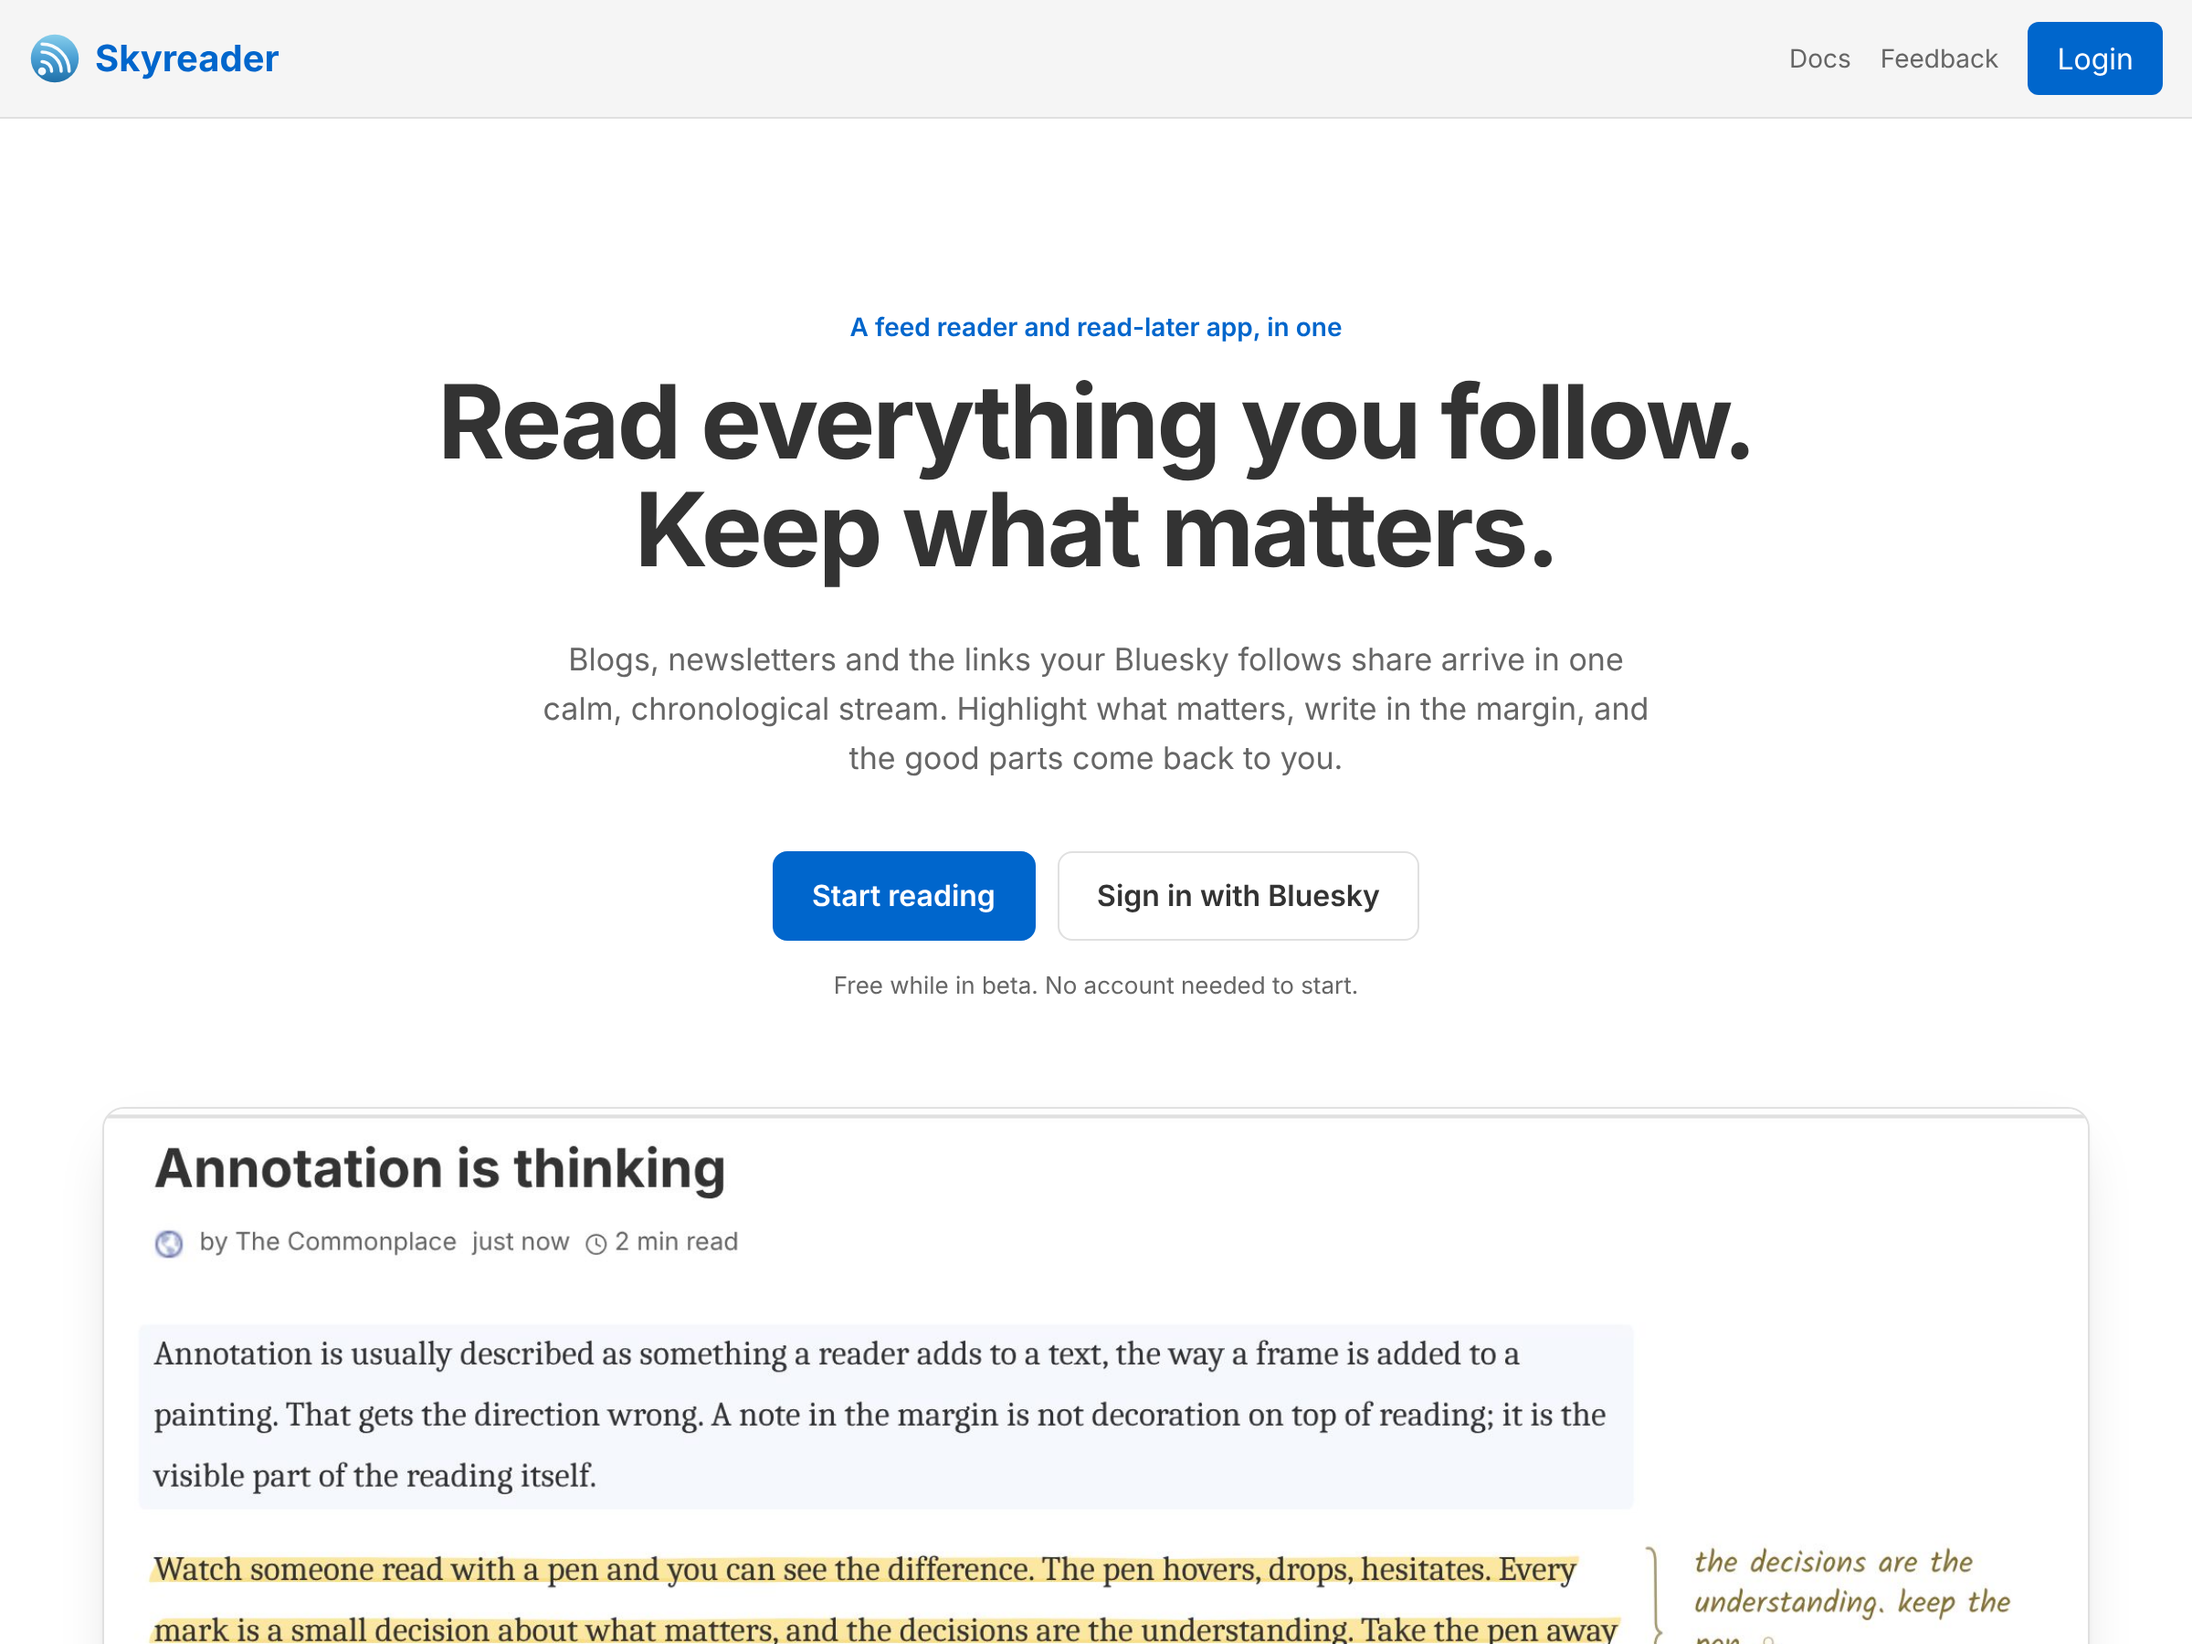
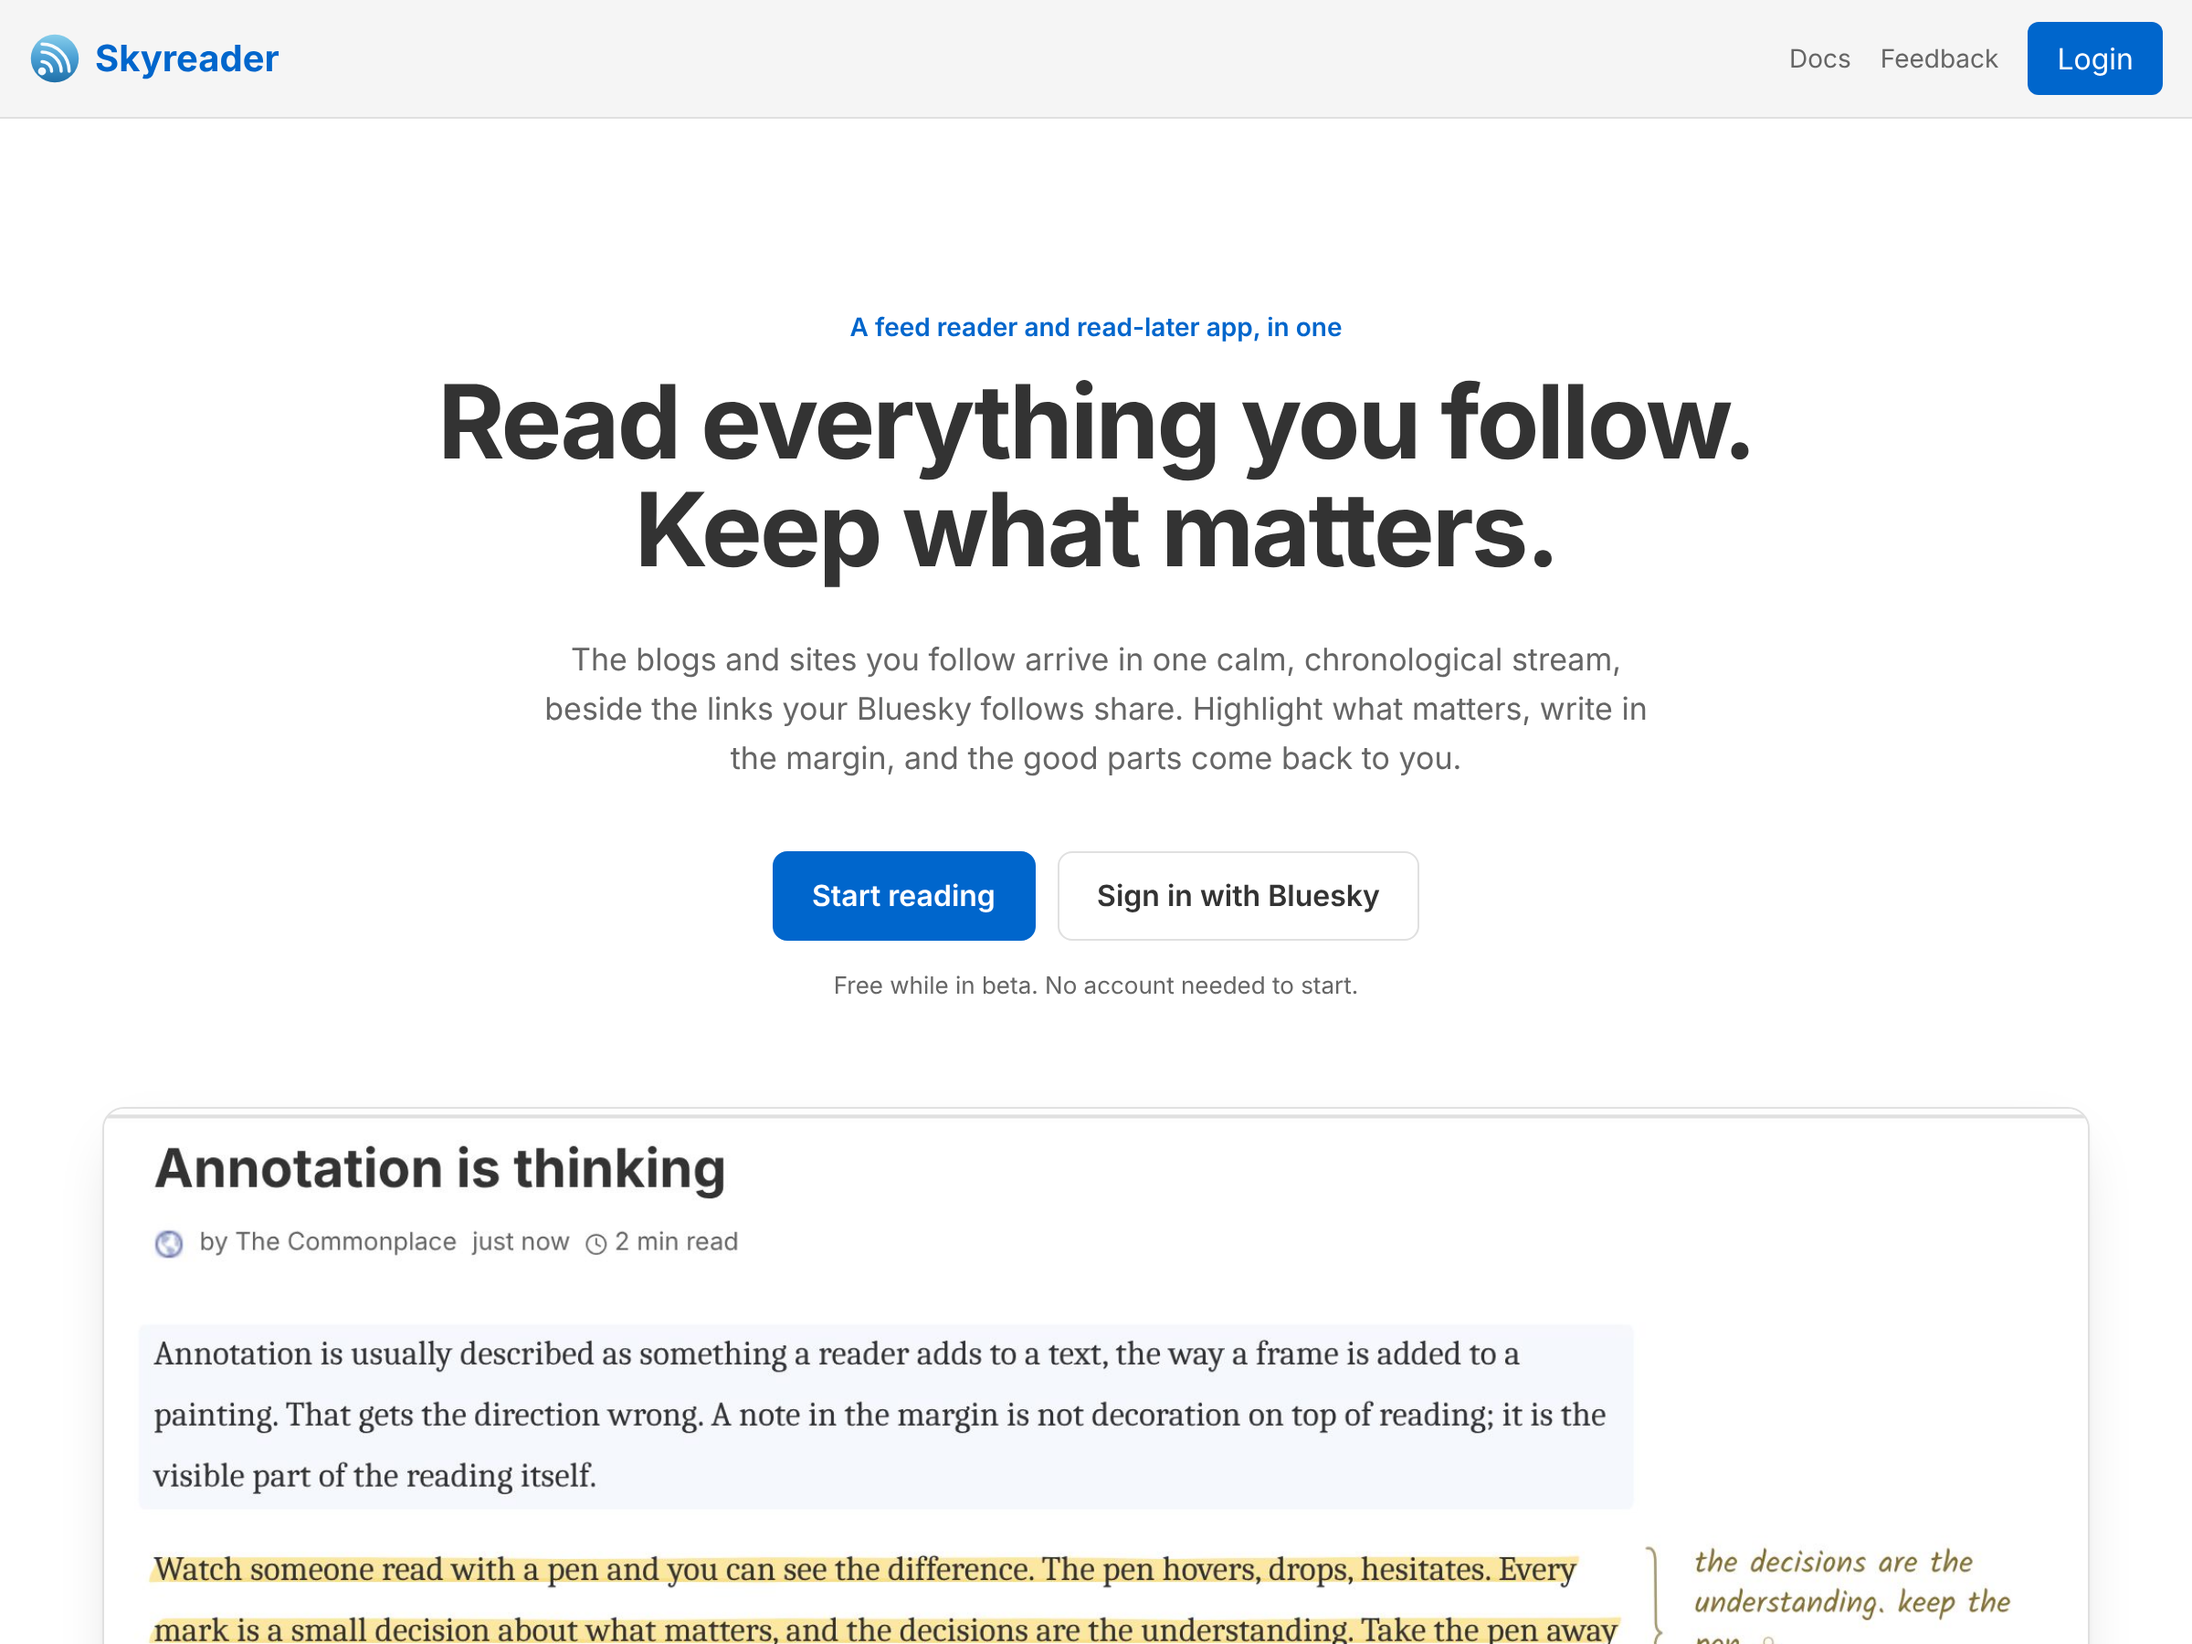
Landing page: fixes from review
- Mark newsletters, PDFs and books as Supporter wherever the page names them.
- Keep the chronological claim to feeds; links from follows are a signed-in
  extra, not part of the stream.
- Fetching a full article needs an account; say so.
- One alert per failed Start, beside the button pressed.
- "Is my reading public?" matches faq.md again.
- Share metadata carries the new headline.
- Screenshot spec: wait for the follows offer before dismissing it, crop the
  hero clear of the toolbar rule, drop the stale animation wait.
- e2e: the landing renders and Start reading opens /feeds as a guest.

Claude-Session: https://claude.ai/code/session_014mh1a1Wg2saDBXnqHqCkAh

Changed region(s): [[0.25, 0.3733, 0.75, 0.4667]]

diff --git a/frontend/src/lib/components/feed/WelcomePage.svelte b/frontend/src/lib/components/feed/WelcomePage.svelte
@@ -27,13 +27,17 @@
 
   let starting = $state(false);
   let startError = $state<string | null>(null);
+  // The page has two Start buttons; the error shows beside the one pressed, so
+  // a failure is one alert, in view, not two (one of them off-screen).
+  let startFrom = $state<'hero' | 'closing'>('hero');
 
   // "Start reading": guest mode. Seeds the curated starter channels into the
   // local library and opens the reader, no account involved; signing in later
   // migrates whatever the guest did. See "Guest reading mode" in
   // frontend/CLAUDE.md.
-  async function startReading() {
+  async function startReading(from: 'hero' | 'closing') {
     if (starting) return;
+    startFrom = from;
     starting = true;
     startError = null;
     try {
@@ -110,7 +114,7 @@
     },
     {
       q: 'Is my reading public?',
-      a: 'No. What you read, save, highlight and note is private to you. Things become public only when you choose to share them, like posting to your linkblog.',
+      a: 'No. What you read, save, highlight and note is private to you. A few things are public by your choice: your linkblog, recommends, the reading rooms you join, and anything you sync or back up to another Atmospheric app.',
       link: { href: docsUrl('yourData'), label: 'What is public, in full' },
     },
     {
@@ -139,16 +143,17 @@
       <span>Keep what matters.</span>
     </h1>
     <p class="hero-lead">
-      Blogs, newsletters and the links your Bluesky follows share arrive in one calm, chronological
-      stream. Highlight what matters, write in the margin, and the good parts come back to you.
+      The blogs and sites you follow arrive in one calm, chronological stream, beside the links your
+      Bluesky follows share. Highlight what matters, write in the margin, and the good parts come
+      back to you.
     </p>
     <div class="actions">
-      <button class="btn btn-primary" onclick={startReading} disabled={starting}>
+      <button class="btn btn-primary" onclick={() => startReading('hero')} disabled={starting}>
         {starting ? 'Preparing your reading room…' : 'Start reading'}
       </button>
       <a class="btn btn-secondary" href="/auth/login">Sign in with Bluesky</a>
     </div>
-    {#if startError}
+    {#if startError && startFrom === 'hero'}
       <p class="start-error" role="alert">{startError}</p>
     {/if}
     <p class="fine">Free while in beta. No account needed to start.</p>
@@ -169,11 +174,12 @@
     <p class="reads-label">Reads</p>
     <ul class="reads-list">
       <li>Blogs and news sites</li>
-      <li>Newsletters</li>
+      <li>Newsletters (Supporter)</li>
       <li>Links your Bluesky follows share</li>
       <li>Writing on the Atmosphere</li>
       <li>Anything you save from the web</li>
-      <li>PDFs, books and YouTube</li>
+      <li>YouTube videos</li>
+      <li>PDFs and books (Supporter)</li>
     </ul>
   </section>
 
@@ -189,9 +195,9 @@
         <p class="step-num">01 · Follow</p>
         <h3>Everything you follow, in one stream</h3>
         <p>
-          Add any site with a feed, newsletters, and the links people you follow on Bluesky share.
-          Group them into channels. It all arrives in the order it was published, with no algorithm
-          deciding what you see.
+          Add any site with a feed, and on the Supporter plan, newsletters by email. Group them into
+          channels. They arrive in the order they were published, with no algorithm deciding what
+          you see. Signed in, you can also read the links people you follow on Bluesky are sharing.
         </p>
         <ul class="points">
           <li>Bring your subscriptions from any feed reader with an OPML file</li>
@@ -215,9 +221,9 @@
         <p class="step-num">02 · Read</p>
         <h3>A reader that gets out of the way</h3>
         <p>
-          Every article opens in a clean reading view, in the type and size you like. Short feeds
-          fetch their full text. Daily gathers your saves into a magazine issue sized to the time
-          you have.
+          Every article opens in a clean reading view, in the type and size you like. When a feed
+          sends only a summary, signing in lets you fetch the whole article. Daily gathers your
+          saves into a magazine issue sized to the time you have.
         </p>
         <ul class="points">
           <li>Scroll or turn pages</li>
@@ -433,12 +439,12 @@
   <section class="closing" aria-labelledby="closing-h">
     <h2 id="closing-h">Start with a few feeds. Sign in when you want it synced.</h2>
     <div class="actions">
-      <button class="btn btn-primary" onclick={startReading} disabled={starting}>
+      <button class="btn btn-primary" onclick={() => startReading('closing')} disabled={starting}>
         {starting ? 'Preparing your reading room…' : 'Start reading'}
       </button>
       <a class="btn btn-secondary" href="/auth/login">Sign in with Bluesky</a>
     </div>
-    {#if startError}
+    {#if startError && startFrom === 'closing'}
       <p class="start-error" role="alert">{startError}</p>
     {/if}
   </section>

diff --git a/e2e-docs/docs-screenshots.spec.ts b/e2e-docs/docs-screenshots.spec.ts
@@ -545,8 +545,6 @@ test.describe('Getting started', () => {
     await expect(page.getByRole('button', { name: 'Start reading' }).first()).toBeVisible({
       timeout: 15_000,
     });
-    // Let the hero's entrance animation settle before freezing the frame.
-    await page.waitForTimeout(1_200);
     await page.evaluate(() => document.fonts.ready);
     await page.screenshot({ path: join(OUT_DIR, 'welcome.png'), animations: 'disabled' });
   });
@@ -949,8 +947,12 @@ test.describe('Landing page', () => {
       await expect(card).toBeVisible({ timeout: 15_000 });
       // The one-time "links from people you follow" offer is for a signed-in
       // reader's first visit, not something a visitor should read as the app.
-      const notNow = authedPage.getByRole('button', { name: 'Not now' });
-      if (await notNow.isVisible()) await notNow.click();
+      // It can mount a beat after the first card, so give it a moment to show.
+      const notNow = authedPage.getByRole('button', { name: 'Not now' }).first();
+      await notNow
+        .waitFor({ state: 'visible', timeout: 3_000 })
+        .then(() => notNow.click())
+        .catch(() => {});
       await landingShot(authedPage, 'stream.jpg');
 
       // The reader: the same essay, its second paragraph highlighted, a note
@@ -984,7 +986,7 @@ test.describe('Landing page', () => {
       await reader.evaluate((el) => el.scrollTo?.(0, 0));
       // Cropped to the column and its margin, under the toolbar, so the
       // passage and the note read at hero size.
-      await landingShot(authedPage, 'reader.jpg', { x: 150, y: 50, width: 1040, height: 496 });
+      await landingShot(authedPage, 'reader.jpg', { x: 150, y: 54, width: 1040, height: 492 });
     } finally {
       await cleanupLibrary();
     }

diff --git a/e2e/landing.spec.ts b/e2e/landing.spec.ts
@@ -1,0 +1,24 @@
+import { test, expect } from './fixtures';
+
+// The logged-out landing (WelcomePage.svelte). Its one piece of behavior is
+// "Start reading": guest mode, seeded with the starter channels, opened on
+// /feeds with no account. Everything else on the page is copy and links.
+test.describe('Landing page', () => {
+  test('says what Skyreader is, and Start reading opens the reader as a guest', async ({
+    page,
+  }) => {
+    await page.goto('/');
+    await expect(page.getByRole('heading', { level: 1 })).toContainText(
+      'Read everything you follow.',
+      { timeout: 15_000 }
+    );
+    await expect(page.getByRole('link', { name: 'Sign in with Bluesky' }).first()).toHaveAttribute(
+      'href',
+      '/auth/login'
+    );
+
+    await page.getByRole('button', { name: 'Start reading' }).first().click();
+    await expect(page).toHaveURL(/\/feeds/, { timeout: 15_000 });
+    expect(await page.evaluate(() => localStorage.getItem('skyreader-guest'))).not.toBeNull();
+  });
+});

diff --git a/frontend/src/app.html b/frontend/src/app.html
@@ -85,7 +85,7 @@
     <meta property="og:title" content="Skyreader" />
     <meta
       property="og:description"
-      content="Read everything from everywhere. Make sense of it all."
+      content="A feed reader and read-later app, in one. Read everything you follow. Keep what matters."
     />
     <meta property="og:url" content="https://skyreader.app/" />
     <meta property="og:image" content="https://skyreader.app/og-image.png" />
@@ -100,7 +100,7 @@
     <meta name="twitter:title" content="Skyreader" />
     <meta
       name="twitter:description"
-      content="Read everything from everywhere. Make sense of it all."
+      content="A feed reader and read-later app, in one. Read everything you follow. Keep what matters."
     />
     <meta name="twitter:image" content="https://skyreader.app/og-image.png" />
 
